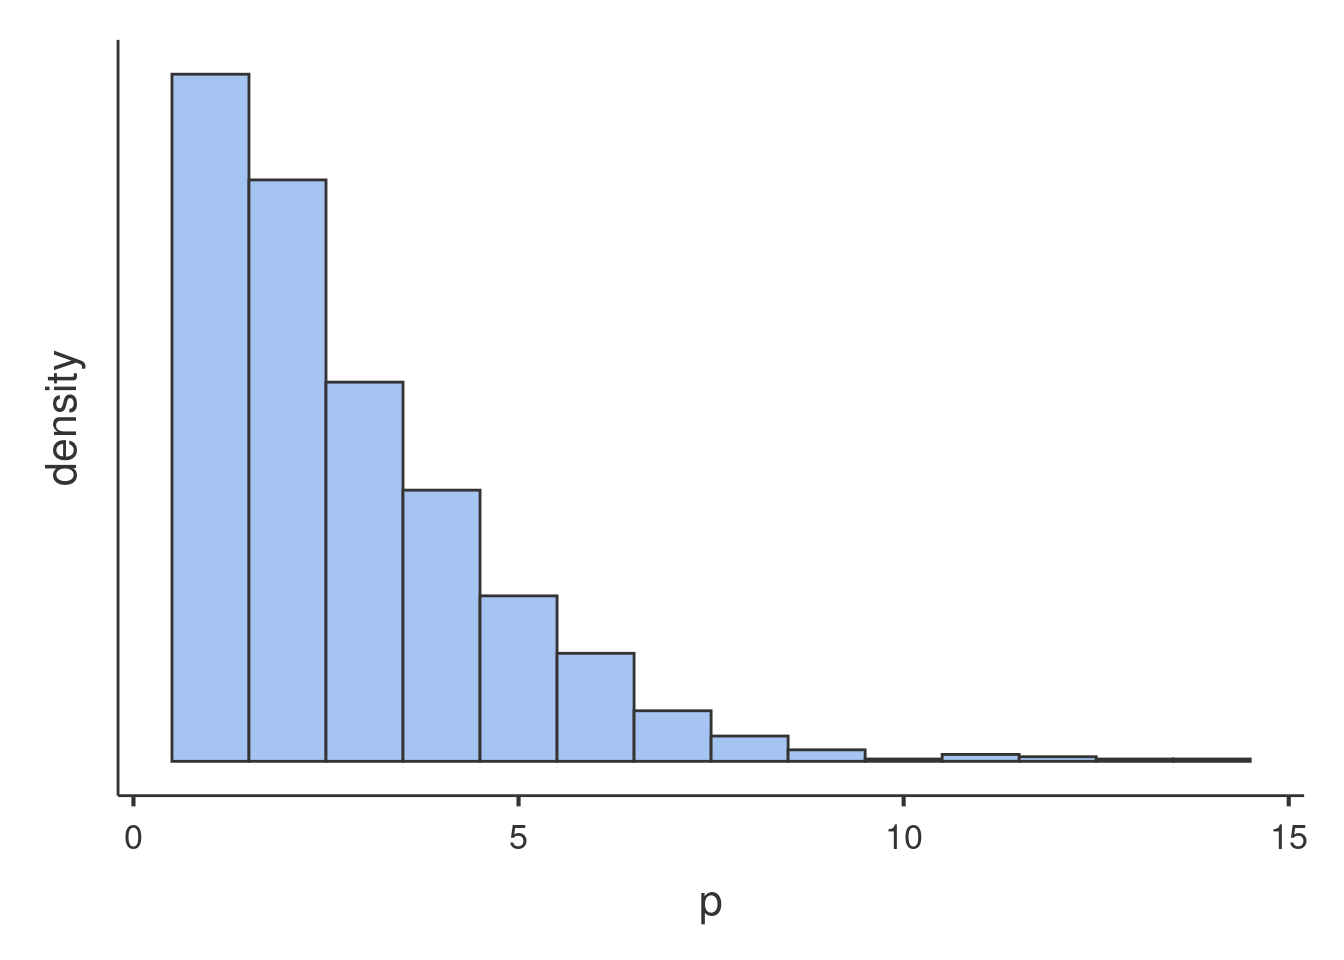
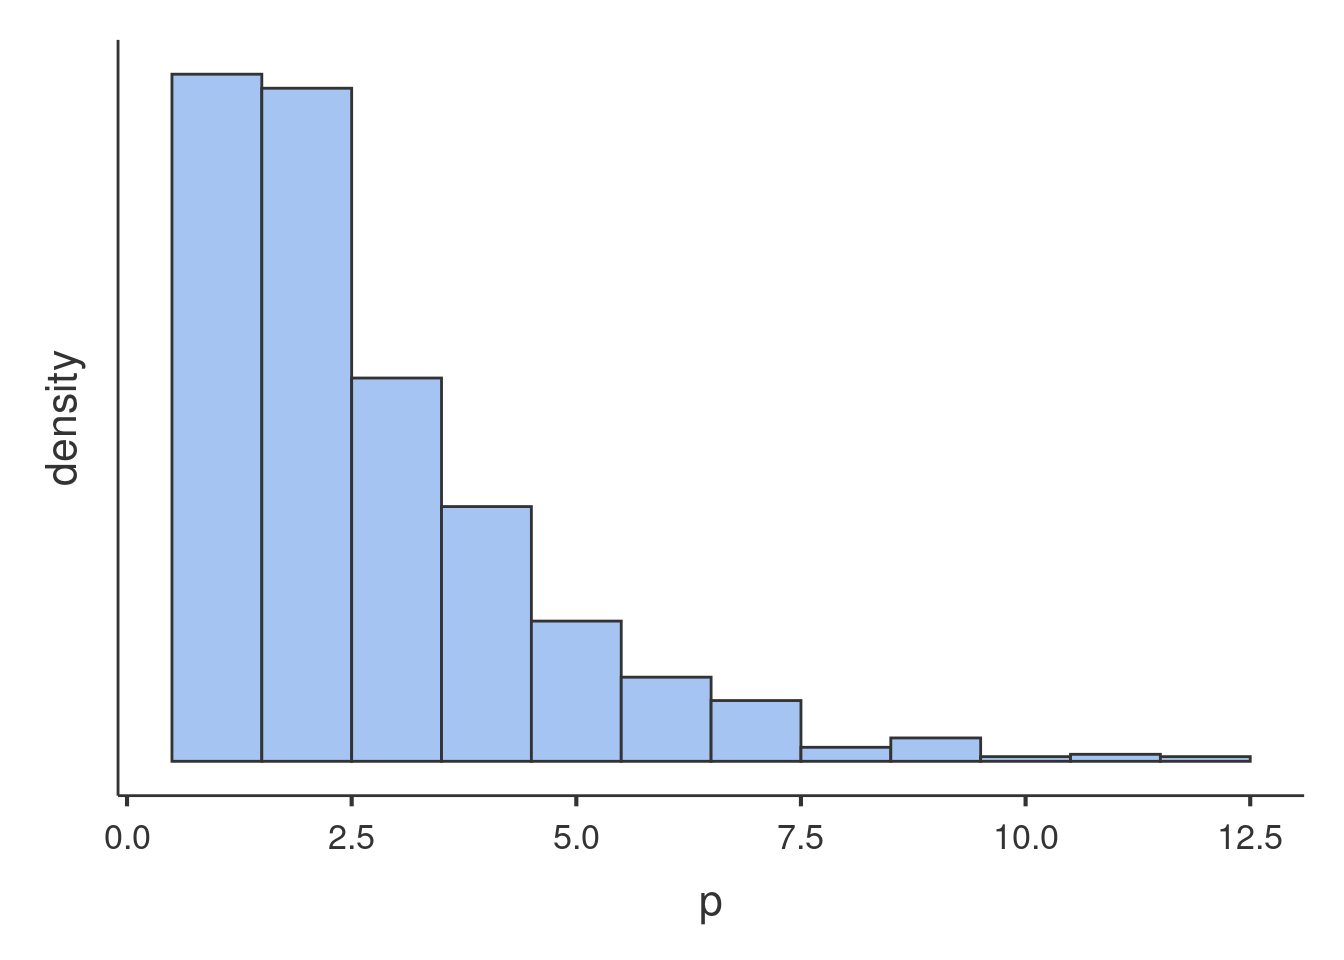
updates

diff --git a/glmmixed_example2.html b/glmmixed_example2.html
@@ -383,7 +383,7 @@ div.tocify {
 <p><img src="glmmixed_example2_files/figure-html/unnamed-chunk-2-1.png" width="672" /></p>
 <p>Glancing at the histogram makes it clear that the distribution is not normal, but it roughly resembles the Poisson distribution. Here is an example of Poisson distribution with equivalent mean.</p>
 <p><img src="glmmixed_example2_files/figure-html/unnamed-chunk-3-1.png" width="672" /></p>
-<p>We can see that the shape of our distribution is not qualitatively very different as compared with a theoretical Poisson distribution, so a Generalized Linear Model with Poisson distribition may work. However, we can check wheather our distribution is in line with the features of the Poisson dist by checking its mean and variance. The Poisson distribution has variance equal to the mean, in fact the simulated distribution in the histogram has <span class="math inline">\(\bar{x}=1.632\)</span> and <span class="math inline">\(s^2=1.516\)</span>. The <code>art</code> variable distribution has <span class="math inline">\(\bar{x}=1.693\)</span> and <span class="math inline">\(s^2=3.71\)</span>, with a ratio variance/mean of 2.191, which does not really qualify for Poisson dist. This looks like a case of <strong>overdispersion</strong>, <a href="http://bbolker.github.io/mixedmodels-misc/glmmFAQ.html#overdispersion">cf. here for details</a>. We will than consider a Negative Binomial model to account for possible overdispersion.</p>
+<p>We can see that the shape of our distribution is not qualitatively very different as compared with a theoretical Poisson distribution, so a Generalized Linear Model with Poisson distribition may work. However, we can check wheather our distribution is in line with the features of the Poisson dist by checking its mean and variance. The Poisson distribution has variance equal to the mean, in fact the simulated distribution in the histogram has <span class="math inline">\(\bar{x}=1.707\)</span> and <span class="math inline">\(s^2=1.663\)</span>. The <code>art</code> variable distribution has <span class="math inline">\(\bar{x}=1.693\)</span> and <span class="math inline">\(s^2=3.71\)</span>, with a ratio variance/mean of 2.191, which does not really qualify for Poisson dist. This looks like a case of <strong>overdispersion</strong>, <a href="http://bbolker.github.io/mixedmodels-misc/glmmFAQ.html#overdispersion">cf. here for details</a>. We will than consider a Negative Binomial model to account for possible overdispersion.</p>
 <p>An example of Negative Binomial distribution with equivalent mean and variance is here.</p>
 <p><img src="glmmixed_example2_files/figure-html/unnamed-chunk-4-1.png" width="672" /></p>
 <p>The second issue one needs to deal with is the structure of the data. We have seen that the students are not a random sample of students drawn independently one each other, but they are grouped by the program they are enrolled in. There are 83 programs, in each program there are on average 11 students. Because students in the same program may be more similar one each other than across programs, <code>programs</code> may cluster the scores of the dependent variable and create dependency in the data. To take dependency into the account, we will use a random intercepts model estimated with a Generalized Mixed Model.</p>

diff --git a/style.css b/style.css
@@ -28,9 +28,7 @@ h1 {
 }
 
 code {
-  background-color:   #f2f4f4  ;
-  font-weight: bold;
-  
+  color: black;  
 }
 .section h2 {
   font-size: 20px;
